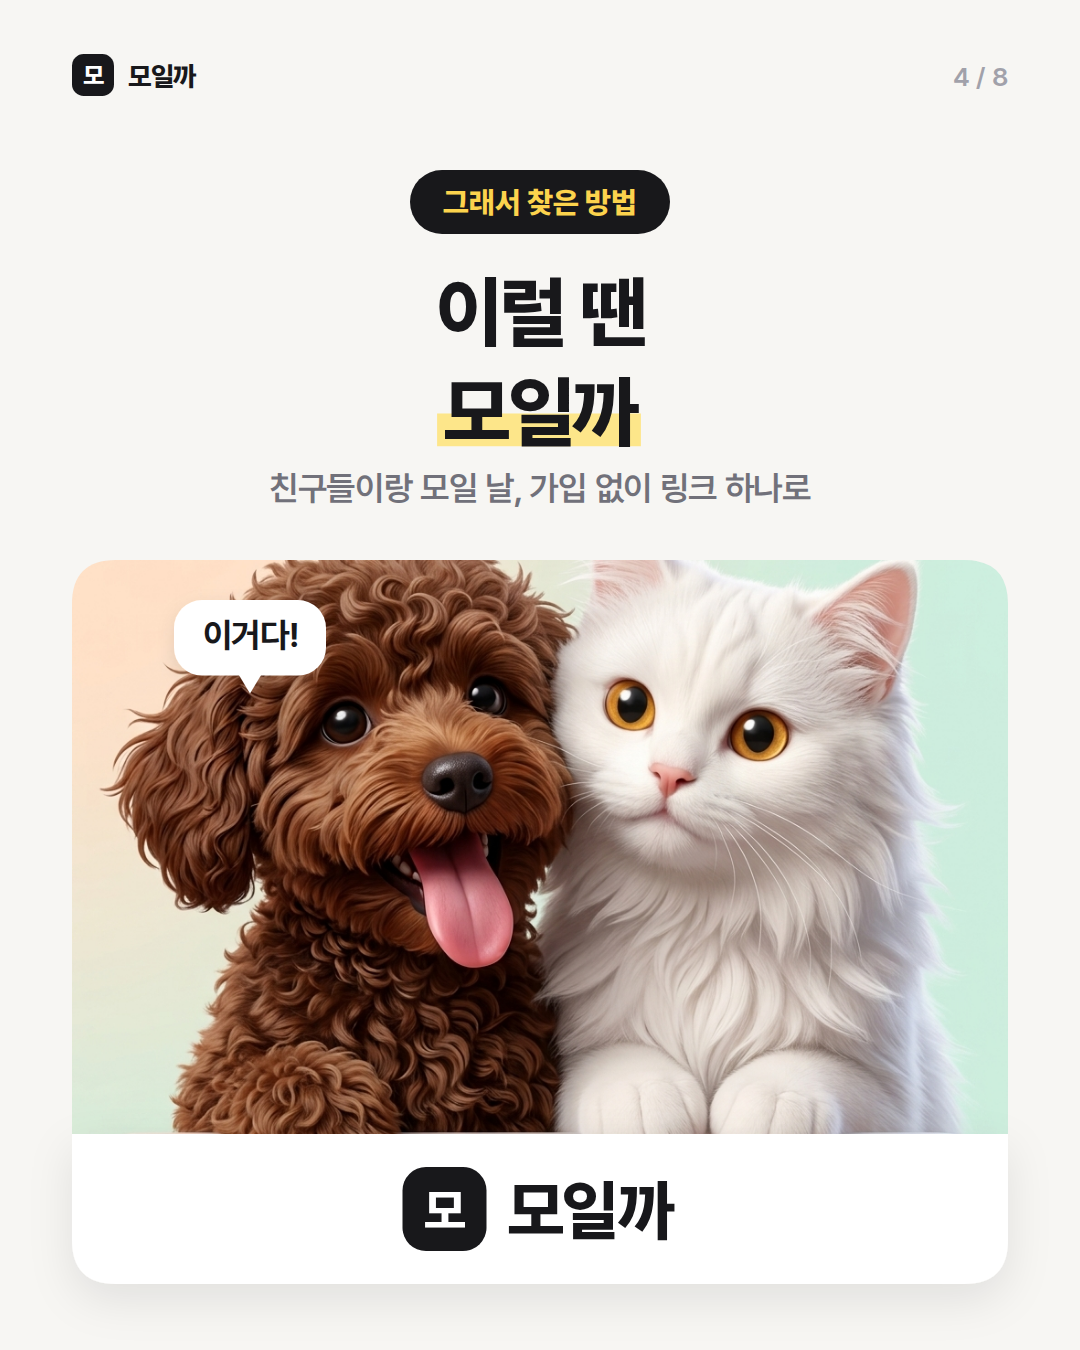
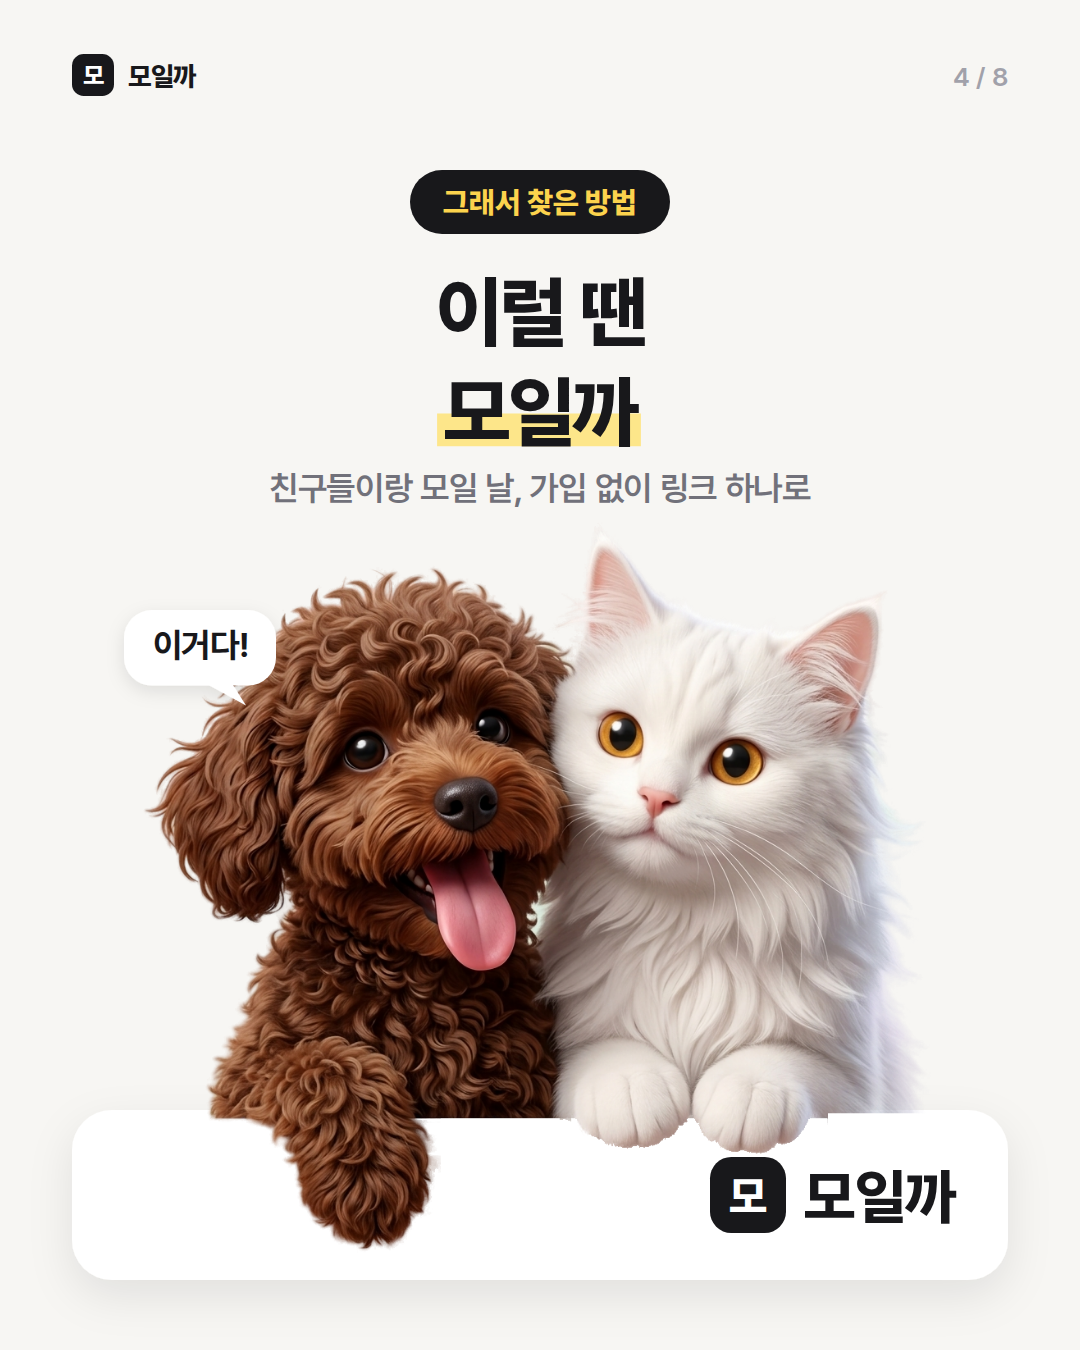
컷툰 EP.1 — 초코·밀크 누끼로 카드 위에 앉히기
이미지 배경을 지운 choco-milk-cut.png 를 추가하고, 표지·4장·8장에서
초코·밀크가 모일까 카드 위에 앞발을 걸친 구도로 배치한다.

Claude-Session: https://claude.ai/code/session_01CKkU2Ec6NKqxHL39zMMfNL

Changed region(s): [[0.0611, 0.4044, 0.9472, 0.9333]]

diff --git a/scripts/promo/cuttoon/cuttoon.html b/scripts/promo/cuttoon/cuttoon.html
@@ -80,6 +80,13 @@ function photoPanel(x, y, w, cropTop = 140, cropBot = 836) {
   return { h, svg: `<clipPath id="${id}"><path d="M${x} ${y + h} V${y + 44} Q${x} ${y} ${x + 44} ${y} H${x + w - 44} Q${x + w} ${y} ${x + w} ${y + 44} V${y + h}Z"/></clipPath>` +
     `<g clip-path="url(#${id})"><image href="${IMG}" x="${x}" y="${y - cropTop * k}" width="${w}" height="${w}" preserveAspectRatio="none"/></g>` };
 }
+// 배경 없는 초코·밀크(choco-milk-cut.png)를 카드 위에 — 앞발이 카드 윗면에 걸치고 초코 발은 카드 앞으로 늘어진다
+const CUT = 'choco-milk-cut.png', CUT_EDGE = 812; // 원본에서 카드 윗면 y
+function petsOnCard(cardY, cardH, pw, inner = '') {
+  const k = pw / 1024, ix = W / 2 - pw / 2;
+  return `<rect x="${M}" y="${cardY}" width="${W - M * 2}" height="${cardH}" rx="40" fill="${C.white}" filter="url(#sh)"/>` + inner +
+    `<image href="${CUT}" x="${ix}" y="${cardY - CUT_EDGE * k}" width="${pw}" height="${pw}"/>`;
+}
 const counter = (x, y, w, h, inner = '') =>
   `<path d="M${x} ${y} H${x + w} V${y + h - 44} Q${x + w} ${y + h} ${x + w - 44} ${y + h} H${x + 44} Q${x} ${y + h} ${x} ${y + h - 44}Z" fill="${C.white}" filter="url(#sh)"/>` + inner;
 // 한 마리 얼굴 크롭 (원본 좌표의 중심·반지름)
@@ -122,8 +129,8 @@ S.push(() => {
   s += pill(170, '모일까 컷툰 EP.1');
   s += headline(['약속 잡기, 왜 맨날', '[흐지부지]될까?'], 340);
   s += sub(500, '단톡방에서 날짜 맞추다 지친 우리 얘기');
-  const P = photoPanel(M, 560, W - M * 2, 150, 824);
-  s += P.svg + counter(M, 560 + P.h, W - M * 2, 96, T(W / 2, 560 + P.h + 60, '초코랑 밀크의 약속 잡기  →', { size: 30, weight: 700, fill: C.z500, anchor: 'middle' }));
+  const cy = 1110;
+  s += petsOnCard(cy, 170, 840, T(W - M - 44, cy + 104, '초코랑 밀크의 약속 잡기 →', { size: 30, weight: 700, fill: C.z500, anchor: 'end' }));
   return s;
 });
 
@@ -165,10 +172,9 @@ S.push(() => {
   s += pill(170, '그래서 찾은 방법');
   s += headline(['이럴 땐', '[모일까]'], 340);
   s += sub(500, '친구들이랑 모일 날, 가입 없이 링크 하나로');
-  const P = photoPanel(M, 560, W - M * 2, 196, 824);
-  const cy = 560 + P.h, mw = 84, gap = 20, tx = tw('모일까', 66, 800), tot = mw + gap + tx, x0 = W / 2 - tot / 2;
-  s += P.svg + counter(M, cy, W - M * 2, 150, mark(x0, cy + 33, mw) + T(x0 + mw + gap, cy + 33 + mw * 0.8, '모일까', { size: 66, weight: 800, ls: -1.5 }));
-  s += say(250, 600, ['이거다!'], 'down');
+  const cy = 1110, mw = 76, gap = 18, tx = tw('모일까', 60, 800), x0 = W - M - 48 - (mw + gap + tx);
+  s += petsOnCard(cy, 170, 840, mark(x0, cy + 47, mw) + T(x0 + mw + gap, cy + 47 + mw * 0.8, '모일까', { size: 60, weight: 800, ls: -1.4 }));
+  s += say(200, 610, ['이거다!'], 'dr');
   return s;
 });
 
@@ -247,11 +253,9 @@ S.push(() => {
   s += pill(170, '6/20 (토) 확정!');
   s += headline(['링크 하나로', '[1분 컷]'], 340);
   s += sub(500, '가입 없음 · 닉네임만 · 무료');
-  const P = photoPanel(M, 560, W - M * 2, 196, 824);
-  const cy = 560 + P.h, uw = tw('moilga.com', 44, 800) + 110;
-  s += P.svg + counter(M, cy, W - M * 2, 150, `<rect x="${W / 2 - uw / 2}" y="${cy + 28}" width="${uw}" height="94" rx="47" fill="${C.ink}"/>` + T(W / 2, cy + 90, 'moilga.com', { size: 44, weight: 800, fill: C.white, anchor: 'middle', ls: 0 }));
-  s += say(300, 600, ['드디어 만났다!'], 'down', { size: 34 });
-  s += T(W / 2, cy + 196, '프로필 링크에서 바로 시작해요', { size: 26, weight: 600, fill: C.z400, anchor: 'middle' });
+  const cy = 1110, uw = tw('moilga.com', 40, 800) + 96, ux = W - M - 40 - uw;
+  s += petsOnCard(cy, 170, 840, `<rect x="${ux}" y="${cy + 42}" width="${uw}" height="86" rx="43" fill="${C.ink}"/>` + T(ux + uw / 2, cy + 99, 'moilga.com', { size: 40, weight: 800, fill: C.white, anchor: 'middle', ls: 0 }));
+  s += say(220, 610, ['드디어 만났다!'], 'dr', { size: 32 });
   return s;
 });
 

diff --git a/scripts/promo/cuttoon/README.md b/scripts/promo/cuttoon/README.md
@@ -13,7 +13,7 @@ node render.mjs 3 5      # 03.png, 05.png 만 다시 찍고 preview 갱신
 - 필요: Playwright + Chromium. 로컬에 없으면 전역 설치본(`npm root -g`)을 쓴다.
 - 폰트: `fonts/` 의 Pretendard woff2 (Medium/SemiBold/Bold/ExtraBold) — git 에 없음. `cp -r ../fonts .` (상위 `scripts/promo/render.mjs` 가 처음 실행될 때 npm 에서 받아 온다).
 - 원본: `cuttoon.html`(슬라이드·레이아웃·앱 UI 카드) + `choco-milk.png`(초코·밀크 AI 생성 이미지, 1024²).
-- 사진 배치: `photoPanel()` 위가 둥근 사진 패널 + `counter()` 카드 — 둘이 카드 위에 앞발을 올린 구도. `photoFace()` 는 한 마리 얼굴 원형 크롭(`FACE` 좌표).
+- 사진 배치: `petsOnCard()` — 배경을 지운 `choco-milk-cut.png`(rembg isnet-general-use 로 누끼 + 유리 카드 잔상 정리)를 모일까 카드 위에 올려 앞발이 카드에 걸치게. `photoFace()` 는 원본의 얼굴 원형 크롭(`FACE` 좌표).
 - 아트 디렉션: 가운데 정렬 굵은 헤드라인 + 형광펜 강조 + 실제 앱 UI 카드 + 초코·밀크 사진.
 - 게시할 때 인스타 'AI 정보' 라벨을 켠다 (주인공 이미지가 AI 생성).
 - 브라우저에서 `cuttoon.html?s=4` 로 한 장만 열어 볼 수 있다.
